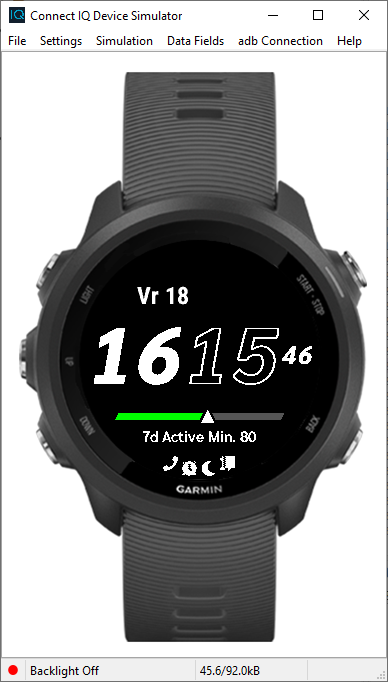
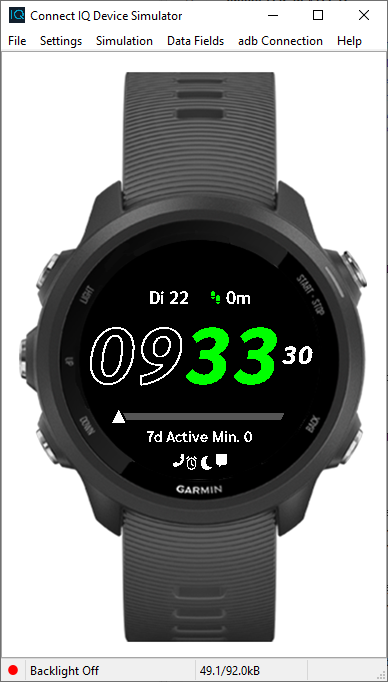
readme update

diff --git a/README.md b/README.md
@@ -6,19 +6,18 @@ A replica of the default Garmin Forerunner 745 wathface.
 
 **Features:**
 * Time in the middle, font and color can be set per digit, seconds can be toggled on and off.
-* 1 changeable data field: weekly active minutes progress bar, todays steps progress bar, todays burned calories progress bar.
-* Status icons for phone connected, do not disturb mode, notification count(1, 2, ..., 9, +), alarm active.
-* Status icons can be placed at bottom or upper right corner
+* 3 changeable data fields: (1, big, bottom)weekly active minutes progress bar, todays steps progress bar, todays burned calories progress bar, (2 and 3, small, left and right) notification count, date, todays distance, floors climbed, status icons
+* Status icons for phone connected, do not disturb mode, notification, alarm.
 
 **Supported devices:**
 
 ```
-    Forerunner 745 ;), Foreunner 245, Forerunner 245 Music, Forerunner 645, Forerunner 645 Music, Forerunner 935, Forerunner 945, Fenix 5,
-    Fenix 5 Plus, Fenix 5S, Fenix 5S Plus, Fenix 5X, Fenix 5X Plus, Fenix 6, Fenix 6 Pro, Fenix 6 Sapphire, Fenix 6 Dual Power, Fenix 6 Pro Dual Power,
-    Fenix 6 Pro Solar, Fenix 6 Solar, Fenix 6S, Fenix 6S Dual Power, Fenix 6S Pro, Fenix 6S Sapphire, Fenix 6S Pro Dual Power, Fenix 6S Pro Solar,
-    Fenix 6S Solar, Fenix 6X Pro, Fenix 6X Sapphire, Fenix 6X Pro Solar, MARQ Adventurer, MARQ Athlete, MARQ Aviator, MARQ Captain, MARQ Commander,
-    MARQ Driver, MARQ expedition, MARQ Golfer, Quatix 6, Quatix 6X, Quatix 6X Solar, Quatix 6X Dual Power, Vivoactive 3, Vivoactive 3 Music,
-    Vivoactive 4, Vivoactive 4S
+    ForeAthlete 235J, ForeAthlete 735XTJ, Forerunner 235, Forerunner 735XT, Forerunner 745 ;), Foreunner 245, Forerunner 245 Music, Forerunner 645,
+    Forerunner 645 Music, Forerunner 935, Forerunner 945, Fenix 5, Fenix 5 Plus, Fenix 5S, Fenix 5S Plus, Fenix 5X, Fenix 5X Plus, Fenix 6, Fenix 6 Pro,
+    Fenix 6 Sapphire, Fenix 6 Dual Power, Fenix 6 Pro Dual Power, Fenix 6 Pro Solar, Fenix 6 Solar, Fenix 6S, Fenix 6S Dual Power, Fenix 6S Pro,
+    Fenix 6S Sapphire, Fenix 6S Pro Dual Power, Fenix 6S Pro Solar, Fenix 6S Solar, Fenix 6X Pro, Fenix 6X Sapphire, Fenix 6X Pro Solar, MARQ Adventurer,
+    MARQ Athlete, MARQ Aviator, MARQ Captain, MARQ Commander, MARQ Driver, MARQ expedition, MARQ Golfer, Quatix 6, Quatix 6X, Quatix 6X Solar,
+    Quatix 6X Dual Power, Vivoactive 3, Vivoactive 3 Music, Vivoactive 4, Vivoactive 4S
 ```
 **Examples:**
 
@@ -30,6 +29,23 @@ A replica of the default Garmin Forerunner 745 wathface.
 This is my first Connect IQ watch face, please be kind and don't hesitate to leave feedback or suggestions!
 
 ## What's new
+**1.2.3:**
+* Fixed status icons bug
+
+**1.2.2:**
+* Removed status icons because of crash
+
+**1.2.1:**
+* Memory optimization
+* Fixed crashes on FR735XT, FR235
+
+**1.2.0:**
+* Fixed settings bug
+* Fixed status icons bug
+* Added settings to change left and right complication (date, status icons, battery, climbed floors, distance walked, notification count)
+* Added support for Forerunner 735XT
+* Added support for Forerunner 235
+
 **1.0.2**:
 * Dropped support for Forerunner 735XT until status icon bug is fixed
 * Added support for Forerunner 745 ;)
@@ -42,9 +58,9 @@ This is my first Connect IQ watch face, please be kind and don't hesitate to lea
 * Initial deploy
 
 ## What's coming
-* Steps climbed progress bar for supporting devices.
-* Change date for other complication.
-* More supported devices.
+* Move bar
+* Battery status icon
+* Manually selecting which status icons to show or hide
 
 [picture1]: ./pictures/picture1.png "Watch face example 1"
 [picture2]: ./pictures/picture2.png "Watch face example 2"
